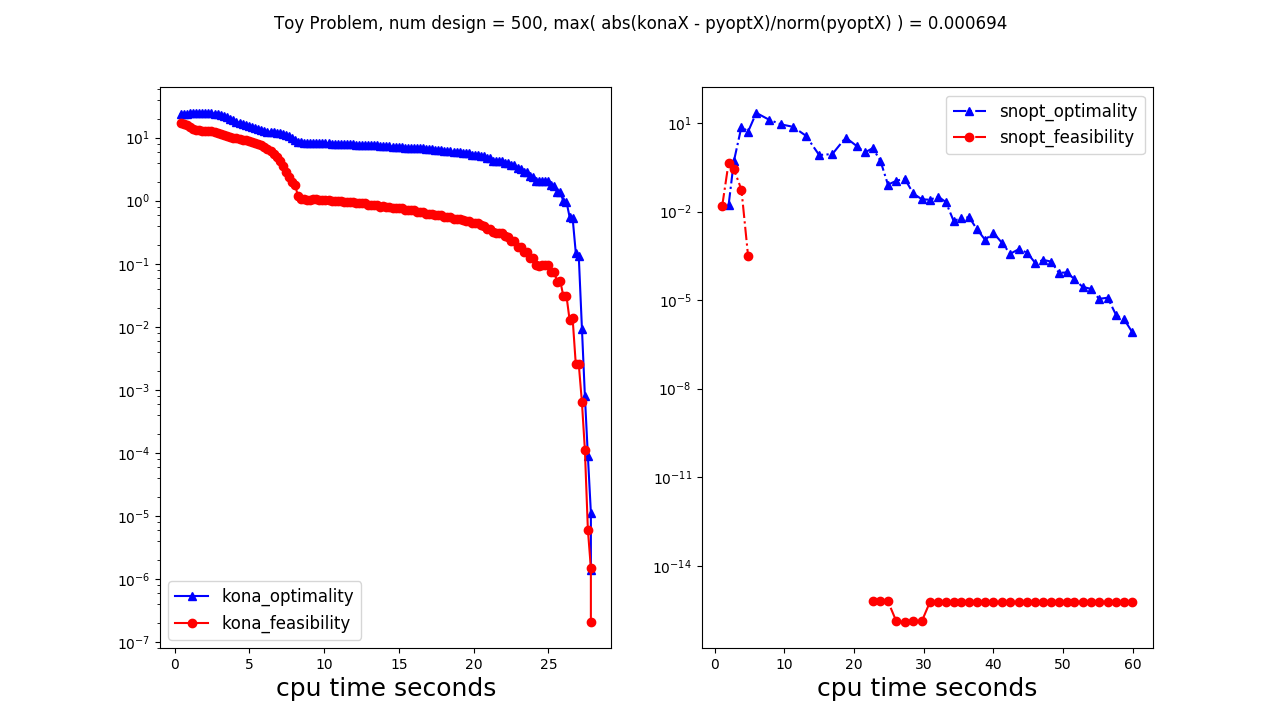
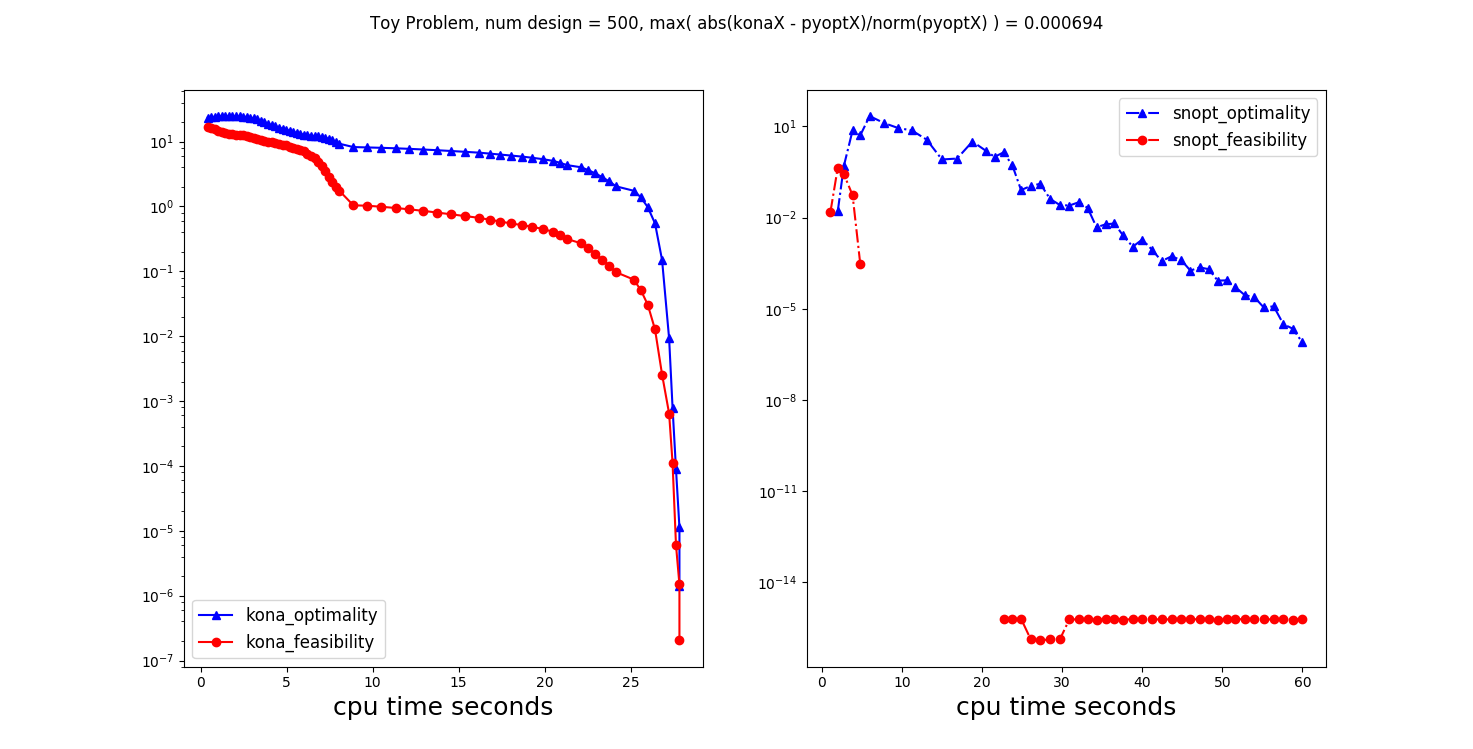
100, 500 accurate, but 200 not

diff --git a/postprocess/plots.py b/postprocess/plots.py
@@ -3,14 +3,23 @@ import matplotlib.pyplot as plt
 from matplotlib.lines import Line2D
 import pdb
 
-dir_konahist = '../kona_latest/src/kona/test/output/'
+dir_konahist = '../kona_latest/src/kona/test/output/100_posT_cor0.1/'
 fname = dir_konahist + 'kona_hist.dat'
 dtype_cols = np.dtype([('outer_iter', 'i4'),('inner_iter', 'i4'), ('objective', 'float64'), ('optimality', 'float'), ('feasibility', 'float64')])
-kona_data = np.loadtxt(fname, dtype=dtype_cols, skiprows = 3, usecols = (0,1,3,5,6))
+kona_datas = np.loadtxt(fname, dtype=dtype_cols, skiprows = 3, usecols = (0,1,3,5,6))
 
 tname = dir_konahist + 'kona_timings.dat'
 dtype_cols2 = np.dtype([('outer_iter', 'i4'), ('time', 'float64')])
-kona_time = np.loadtxt(tname, dtype=dtype_cols2, skiprows = 3, usecols = (0,2))
+kona_timings = np.loadtxt(tname, dtype=dtype_cols2, skiprows = 3, usecols = (0,2))
+
+# when inner_iter > 1 before mu = 0, display only one inner_iter, to make plots clean
+iter_unique, indices = np.unique(kona_datas['outer_iter'], return_index=True)
+last_indices = indices[-1]
+last_inners = range(last_indices+1, len(kona_datas['outer_iter']))
+new_indices = np.hstack([indices, np.array(last_inners)])
+
+kona_time = kona_timings['time'][new_indices]
+kona_data = kona_datas[new_indices]
 
 # ----- Processing "SNOPT_summary.out" file 
 
@@ -21,15 +30,15 @@ dtype_sn = np.dtype([('outer_iter', 'i4'),('nCon', 'i4'), ('feasibility', 'float
 snopt_data = np.loadtxt(snopt_name, dtype=dtype_sn, skiprows = 1, usecols = (0,3,4,5,6))
 nCon_idx = snopt_data['nCon']
 
-
 tname = dir_konahist + 'SNOPT_timings.dat'
-dtype_cols2 = np.dtype([('outer_iter', 'i4'), ('time', 'float64')])
+dtype_cols2 = np.dtype([('outer_qqiter', 'i4'), ('time', 'float64')])
 snopt_time_s = np.loadtxt(tname, dtype=dtype_cols2, skiprows = 2, usecols = (0,2))
+
 snopt_time = snopt_time_s['time'][nCon_idx-1]
 
 plt.subplot(121)
-line1, = plt.semilogy(kona_time['time'], kona_data['optimality'], marker='^', linestyle='-', color='b', label='kona_optimality') 
-line2, = plt.semilogy(kona_time['time'], kona_data['feasibility'], marker='o', linestyle='-', color='r', label='kona_feasibility')  
+line1, = plt.semilogy(kona_time, kona_data['optimality'], marker='^', linestyle='-', color='b', label='kona_optimality') 
+line2, = plt.semilogy(kona_time, kona_data['feasibility'], marker='o', linestyle='-', color='r', label='kona_feasibility')  
 plt.legend([line1, line2], ['kona_optimality', 'kona_feasibility'], prop={'size':12})
 plt.xlabel('cpu time seconds', fontsize=18)
 
@@ -41,6 +50,8 @@ line4, = plt.semilogy(snopt_time, snopt_data['feasibility'], marker='o', linesty
 plt.xlabel('cpu time seconds', fontsize=18)
 plt.legend([line3, line4], ['snopt_optimality', 'snopt_feasibility'], prop={'size':12})
 
+
+plt.suptitle('Num design = 100, diffX = 3.25e-06')
 # plt.suptitle('Toy Problem, num design = 500, max( abs(konaX - pyoptX)/norm(pyoptX) ) = 0.000694')
-plt.suptitle('Toy Problem, num design = 400, max( abs(konaX - pyoptX)/norm(pyoptX) ) = ')
-plt.show()     
+# plt.suptitle('Toy Problem, num design = 400, max( abs(konaX - pyoptX)/norm(pyoptX) ) = ')
+plt.show()     #  max( abs(konaX - pyoptX)/norm(pyoptX) )

diff --git a/kona_latest/src/kona/test/test_construct_svdA.py b/kona_latest/src/kona/test/test_construct_svdA.py
@@ -16,9 +16,9 @@ class InequalityTestCase(unittest.TestCase):
     def setUp(self):
 
         self.outdir = './output'
-        self.num_design = 400
-        self.num_ineq = 400
-        self.init_x = np.zeros(400)   #np.random.rand(20)    # np.zeros(300)
+        self.num_design = 200
+        self.num_ineq = 200
+        self.init_x = np.zeros(200)   #np.random.rand(20)    # np.zeros(300)
 
         self.solver = Constructed_SVDA(self.num_design, self.num_ineq, self.init_x, self.outdir)
 
@@ -43,7 +43,7 @@ class InequalityTestCase(unittest.TestCase):
                 'min_factor' : 0.5,                   
                 'dmu_max' : -0.0005,       
                 'dmu_min' : -0.9,      
-                'mu_correction' : 1.0,  
+                'mu_correction' : 0.9,  
             }, 
 
             'rsnk' : {
@@ -178,7 +178,7 @@ class InequalityTestCase(unittest.TestCase):
         self.startTime_sn = time.clock()
         self.totalTime_sn = 0
         self.endTime_sn = 0
-        file = open(self.outdir+'/SNOPT_timings.dat', 'a')
+        file = open(self.outdir+'/SNOPT_timings.dat', 'w')
         file.write('# SNOPT iteration timing history\n')
         titles = '# {0:s}    {1:s}    {2:s}    {3:s}  \n'.format(
             'Iter', 'Time (s)', 'Total Time (s)', 'Objective')
@@ -200,7 +200,7 @@ class InequalityTestCase(unittest.TestCase):
         self.solver.totalTime = 0.
         self.solver.startTime = 0.
         self.solver.startTime = time.clock()
-        file = open(self.outdir+'/kona_timings.dat', 'a')
+        file = open(self.outdir+'/kona_timings.dat', 'w')
         file.write('# Constructed_SVDA iteration timing history\n')
         titles = '# {0:s}    {1:s}    {2:s}    {3:s}    {4:s}  \n'.format(
             'Iter', 'Time (s)', 'Total Time (s)', 'Objective', 'max( - slack * lambda )')

diff --git a/kona_latest/src/kona/algorithms/predictor_corrector_conditional.py b/kona_latest/src/kona/algorithms/predictor_corrector_conditional.py
@@ -338,7 +338,7 @@ class PredictorCorrectorCnstrCond(OptimizationAlgorithm):
 
         # normalize tangent vector
         tnorm = np.sqrt(t.inner(t) + 1.0)
-        t.times(-1./tnorm)
+        t.times(1./tnorm)
         dmu = -1./tnorm
 
         # START OUTER ITERATIONS
@@ -719,7 +719,7 @@ class PredictorCorrectorCnstrCond(OptimizationAlgorithm):
 
             # normalize the tangent vector
             tnorm = np.sqrt(t.inner(t) + 1.0)
-            t.times(-1./tnorm)
+            t.times(1./tnorm)
             dmu = -1./tnorm
 
             # compute distance to curve
